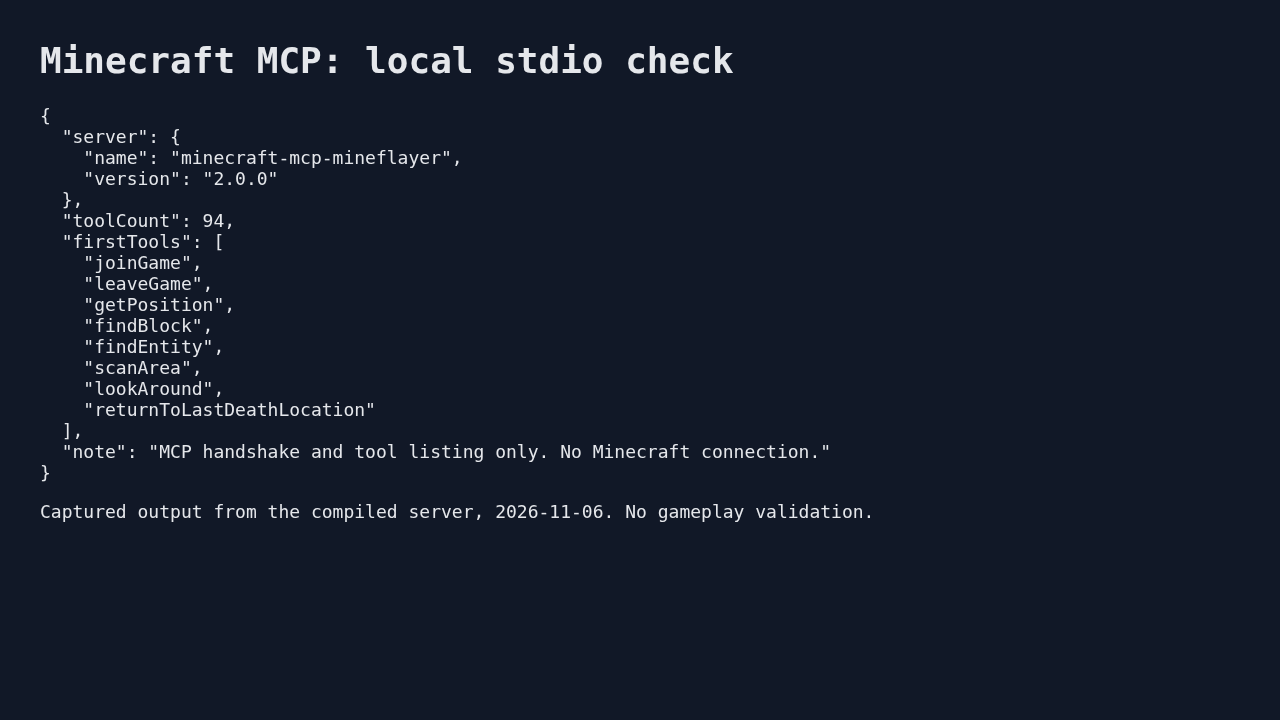
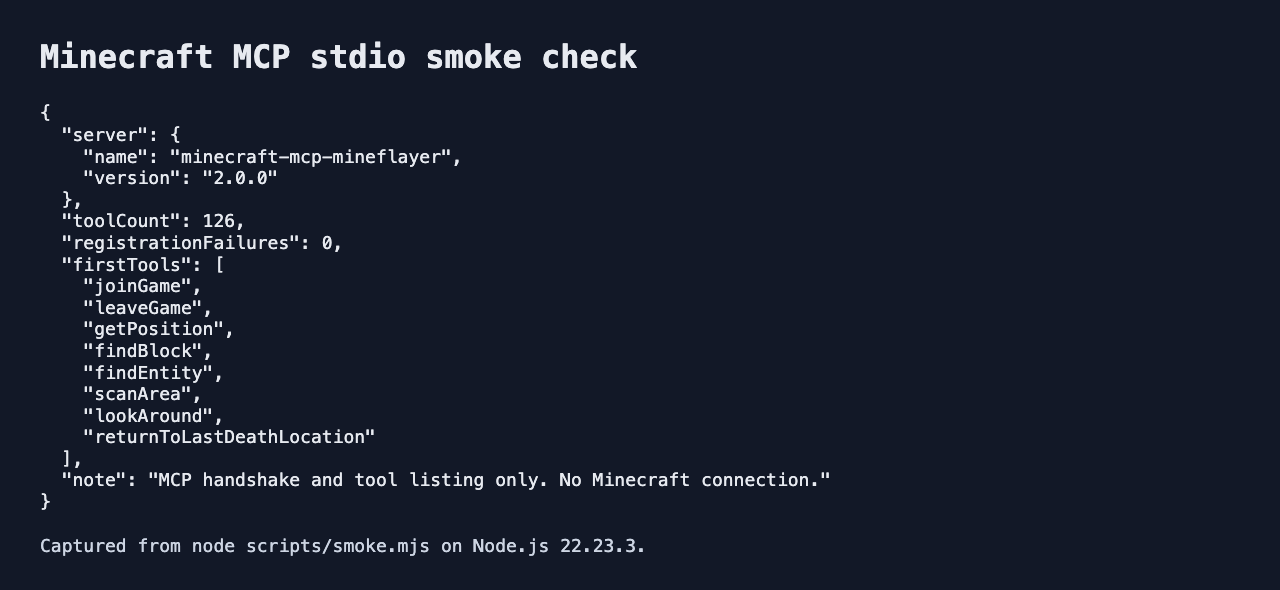
fix: restore pathfinder tool registration (#4)
## Changes

- Read `goals` from the `mineflayer-pathfinder` default export. The
compiled server now registers all ten affected tool groups on Node.js
22.23.3.
- Make the stdio smoke check fail on registration warnings or an
unexpected tool count.
- Regenerate the README table from `tools/list` and refresh the smoke
screenshot.

## Verification

- Replayed the README quick start from a fresh clone. Install, lint,
typecheck, build, and all 1,259 tests passed. Lint reported two existing
warnings.
- Verified 126 tools, up from 94, with zero registration failures.
Compared every live tool name against the README.
- Ran the new smoke check against the original build. It exited with
code 1 and named all ten failing groups. Also verified that a warning
alone or a tool count mismatch alone makes it fail.

---
Opened by the Zero Mac lane for Kanban card `t_dbd4dbb8` (run 5169).
Draft until reviewed.

diff --git a/src/bot/bot-factory.ts b/src/bot/bot-factory.ts
@@ -28,7 +28,7 @@ import { logger } from '../utils/logger.js';
 const log = logger.child('bot-factory');
 
 // Handle CJS interop for plugins
-const pathfinder = (pathfinderPkg as { pathfinder: (bot: Bot) => void }).pathfinder;
+const { goals, pathfinder } = pathfinderPkg;
 
 /**
  * Load plugins into a bot
@@ -260,7 +260,6 @@ function setupAutoCollect(bot: Bot, config: AppConfig): void {
       for (const item of items) {
         if (!item.position) continue;
         try {
-          const { goals } = await import('mineflayer-pathfinder');
           const goal = new goals.GoalNear(
             item.position.x,
             item.position.y,
@@ -388,7 +387,6 @@ function setupAutoRetreat(bot: Bot, config: AppConfig): void {
           const targetZ = bot.entity.position.z + (dz / len) * retreatConfig.retreatDistance;
 
           try {
-            const { goals } = await import('mineflayer-pathfinder');
             const goal = new goals.GoalNear(targetX, bot.entity.position.y, targetZ, 2);
             await bot.pathfinder?.goto(goal);
           } catch {
@@ -581,7 +579,6 @@ function setupAutoPosition(bot: Bot, _config: AppConfig): void {
             blockAboveNewPos.name === 'air'
           ) {
             try {
-              const { goals } = await import('mineflayer-pathfinder');
               const goal = new goals.GoalNear(newPos.x, newPos.y, newPos.z, 0.5);
               await bot.pathfinder?.goto(goal);
               break;

diff --git a/src/services/bed-spawn.service.ts b/src/services/bed-spawn.service.ts
@@ -413,7 +413,8 @@ export async function goToBed(bot: Bot): Promise<{ success: boolean; bed?: BedLo
   }
 
   try {
-    const { goals } = await import('mineflayer-pathfinder');
+    const { default: pathfinderPkg } = await import('mineflayer-pathfinder');
+    const { goals } = pathfinderPkg;
     const goal = new goals.GoalNear(bed.position.x, bed.position.y, bed.position.z, 2);
     bot.pathfinder.setGoal(goal);
 
@@ -446,7 +447,8 @@ export async function goToSpawnPoint(bot: Bot): Promise<{ success: boolean; spaw
   }
 
   try {
-    const { goals } = await import('mineflayer-pathfinder');
+    const { default: pathfinderPkg } = await import('mineflayer-pathfinder');
+    const { goals } = pathfinderPkg;
     const goal = new goals.GoalNear(spawn.position.x, spawn.position.y, spawn.position.z, 2);
     bot.pathfinder.setGoal(goal);
 

diff --git a/src/tools/building/prepare-farmland.ts b/src/tools/building/prepare-farmland.ts
@@ -11,7 +11,8 @@ import { createEquipmentService } from '../../services/equipment.service.js';
 import { configureMovements, waitForNavigation } from '../../services/navigation.service.js';
 import { isWaterLike, isPlantObstruction } from '../../utils/block-helpers.js';
 
-import { goals } from 'mineflayer-pathfinder';
+import pathfinderPkg from 'mineflayer-pathfinder';
+const { goals } = pathfinderPkg;
 
 const InputSchema = BaseInputSchema.extend({
   radius: z.number().optional().default(3).describe('Radius to search for tillable dirt'),

diff --git a/src/tools/automation/auto-mine.ts b/src/tools/automation/auto-mine.ts
@@ -9,7 +9,8 @@ import { BaseTool, BaseInputSchema } from '../base-tool.js';
 import { withTask } from '../../services/task.service.js';
 import { configureMovements } from '../../services/navigation.service.js';
 import mcData from 'minecraft-data';
-import { goals } from 'mineflayer-pathfinder';
+import pathfinderPkg from 'mineflayer-pathfinder';
+const { goals } = pathfinderPkg;
 
 const InputSchema = BaseInputSchema.extend({
   targetBlock: z.string().describe('Type of block to mine (e.g., "iron_ore", "diamond_ore", "coal_ore")'),

diff --git a/src/services/smart-eat.service.ts b/src/services/smart-eat.service.ts
@@ -254,7 +254,8 @@ async function fleeToSafety(bot: Bot, config: SmartEatConfig): Promise<boolean> 
     if (pathfinder && typeof pathfinder.goto === 'function') {
       // Use pathfinder for smarter navigation
       try {
-        const { goals } = await import('mineflayer-pathfinder');
+        const { default: pathfinderPkg } = await import('mineflayer-pathfinder');
+        const { goals } = pathfinderPkg;
         const goal = new goals.GoalNear(targetX, bot.entity.position.y, targetZ, 2);
 
         await Promise.race([

diff --git a/src/tools/multibot/form-up.ts b/src/tools/multibot/form-up.ts
@@ -8,7 +8,8 @@ import type { Bot } from 'mineflayer';
 import { BaseTool, BaseInputSchema } from '../base-tool.js';
 import { withTask } from '../../services/task.service.js';
 import { configureMovements } from '../../services/navigation.service.js';
-import { goals } from 'mineflayer-pathfinder';
+import pathfinderPkg from 'mineflayer-pathfinder';
+const { goals } = pathfinderPkg;
 
 const InputSchema = BaseInputSchema.extend({
   x: z.number().optional().describe('X coordinate to gather at (default: current bot position)'),

diff --git a/src/tools/automation/guard-area.ts b/src/tools/automation/guard-area.ts
@@ -8,7 +8,8 @@ import type { Bot } from 'mineflayer';
 import { BaseTool, BaseInputSchema } from '../base-tool.js';
 import { withTask } from '../../services/task.service.js';
 import { configureMovements } from '../../services/navigation.service.js';
-import { goals } from 'mineflayer-pathfinder';
+import pathfinderPkg from 'mineflayer-pathfinder';
+const { goals } = pathfinderPkg;
 
 const InputSchema = BaseInputSchema.extend({
   radius: z.number().optional().default(20).describe('Radius of the area to guard'),

diff --git a/src/tools/brewing/add-to-brewing-stand.ts b/src/tools/brewing/add-to-brewing-stand.ts
@@ -9,8 +9,10 @@ import type { Block } from 'prismarine-block';
 import type { Item } from 'prismarine-item';
 import { BaseTool, BaseInputSchema } from '../base-tool.js';
 import { withTask } from '../../services/task.service.js';
-import { goals } from 'mineflayer-pathfinder';
+import pathfinderPkg from 'mineflayer-pathfinder';
 import mcData from 'minecraft-data';
+
+const { goals } = pathfinderPkg;
 
 /** Bot with brewing stand methods */
 interface BotWithBrewingStand extends Bot {

diff --git a/src/tools/brewing/brew-potion.ts b/src/tools/brewing/brew-potion.ts
@@ -9,8 +9,10 @@ import type { Block } from 'prismarine-block';
 import type { Item } from 'prismarine-item';
 import { BaseTool, BaseInputSchema } from '../base-tool.js';
 import { withTask } from '../../services/task.service.js';
-import { goals } from 'mineflayer-pathfinder';
+import pathfinderPkg from 'mineflayer-pathfinder';
 import mcData from 'minecraft-data';
+
+const { goals } = pathfinderPkg;
 
 /** Bot with brewing stand methods */
 interface BotWithBrewingStand extends Bot {

diff --git a/src/tools/brewing/retrieve-from-brewing-stand.ts b/src/tools/brewing/retrieve-from-brewing-stand.ts
@@ -9,8 +9,10 @@ import type { Block } from 'prismarine-block';
 import type { Item } from 'prismarine-item';
 import { BaseTool, BaseInputSchema } from '../base-tool.js';
 import { withTask } from '../../services/task.service.js';
-import { goals } from 'mineflayer-pathfinder';
+import pathfinderPkg from 'mineflayer-pathfinder';
 import mcData from 'minecraft-data';
+
+const { goals } = pathfinderPkg;
 
 /** Bot with brewing stand methods */
 interface BotWithBrewingStand extends Bot {

diff --git a/tests/unit/tools/navigation-tools.test.ts b/tests/unit/tools/navigation-tools.test.ts
@@ -27,9 +27,11 @@ vi.mock('../../../src/services/task.service.js', () => ({
 
 // Mock mineflayer-pathfinder
 vi.mock('mineflayer-pathfinder', () => ({
-  goals: {
-    GoalNear: class GoalNear {
-      constructor(public x: number, public y: number, public z: number, public range: number) {}
+  default: {
+    goals: {
+      GoalNear: class GoalNear {
+        constructor(public x: number, public y: number, public z: number, public range: number) {}
+      },
     },
   },
 }));

diff --git a/src/tools/anvil/combine-enchantments.ts b/src/tools/anvil/combine-enchantments.ts
@@ -9,8 +9,10 @@ import type { Block } from 'prismarine-block';
 import type { Item } from 'prismarine-item';
 import { BaseTool, BaseInputSchema } from '../base-tool.js';
 import { withTask } from '../../services/task.service.js';
-import { goals } from 'mineflayer-pathfinder';
+import pathfinderPkg from 'mineflayer-pathfinder';
 import mcData from 'minecraft-data';
+
+const { goals } = pathfinderPkg;
 
 /** Bot with anvil methods */
 type BotWithAnvil = Bot & {
